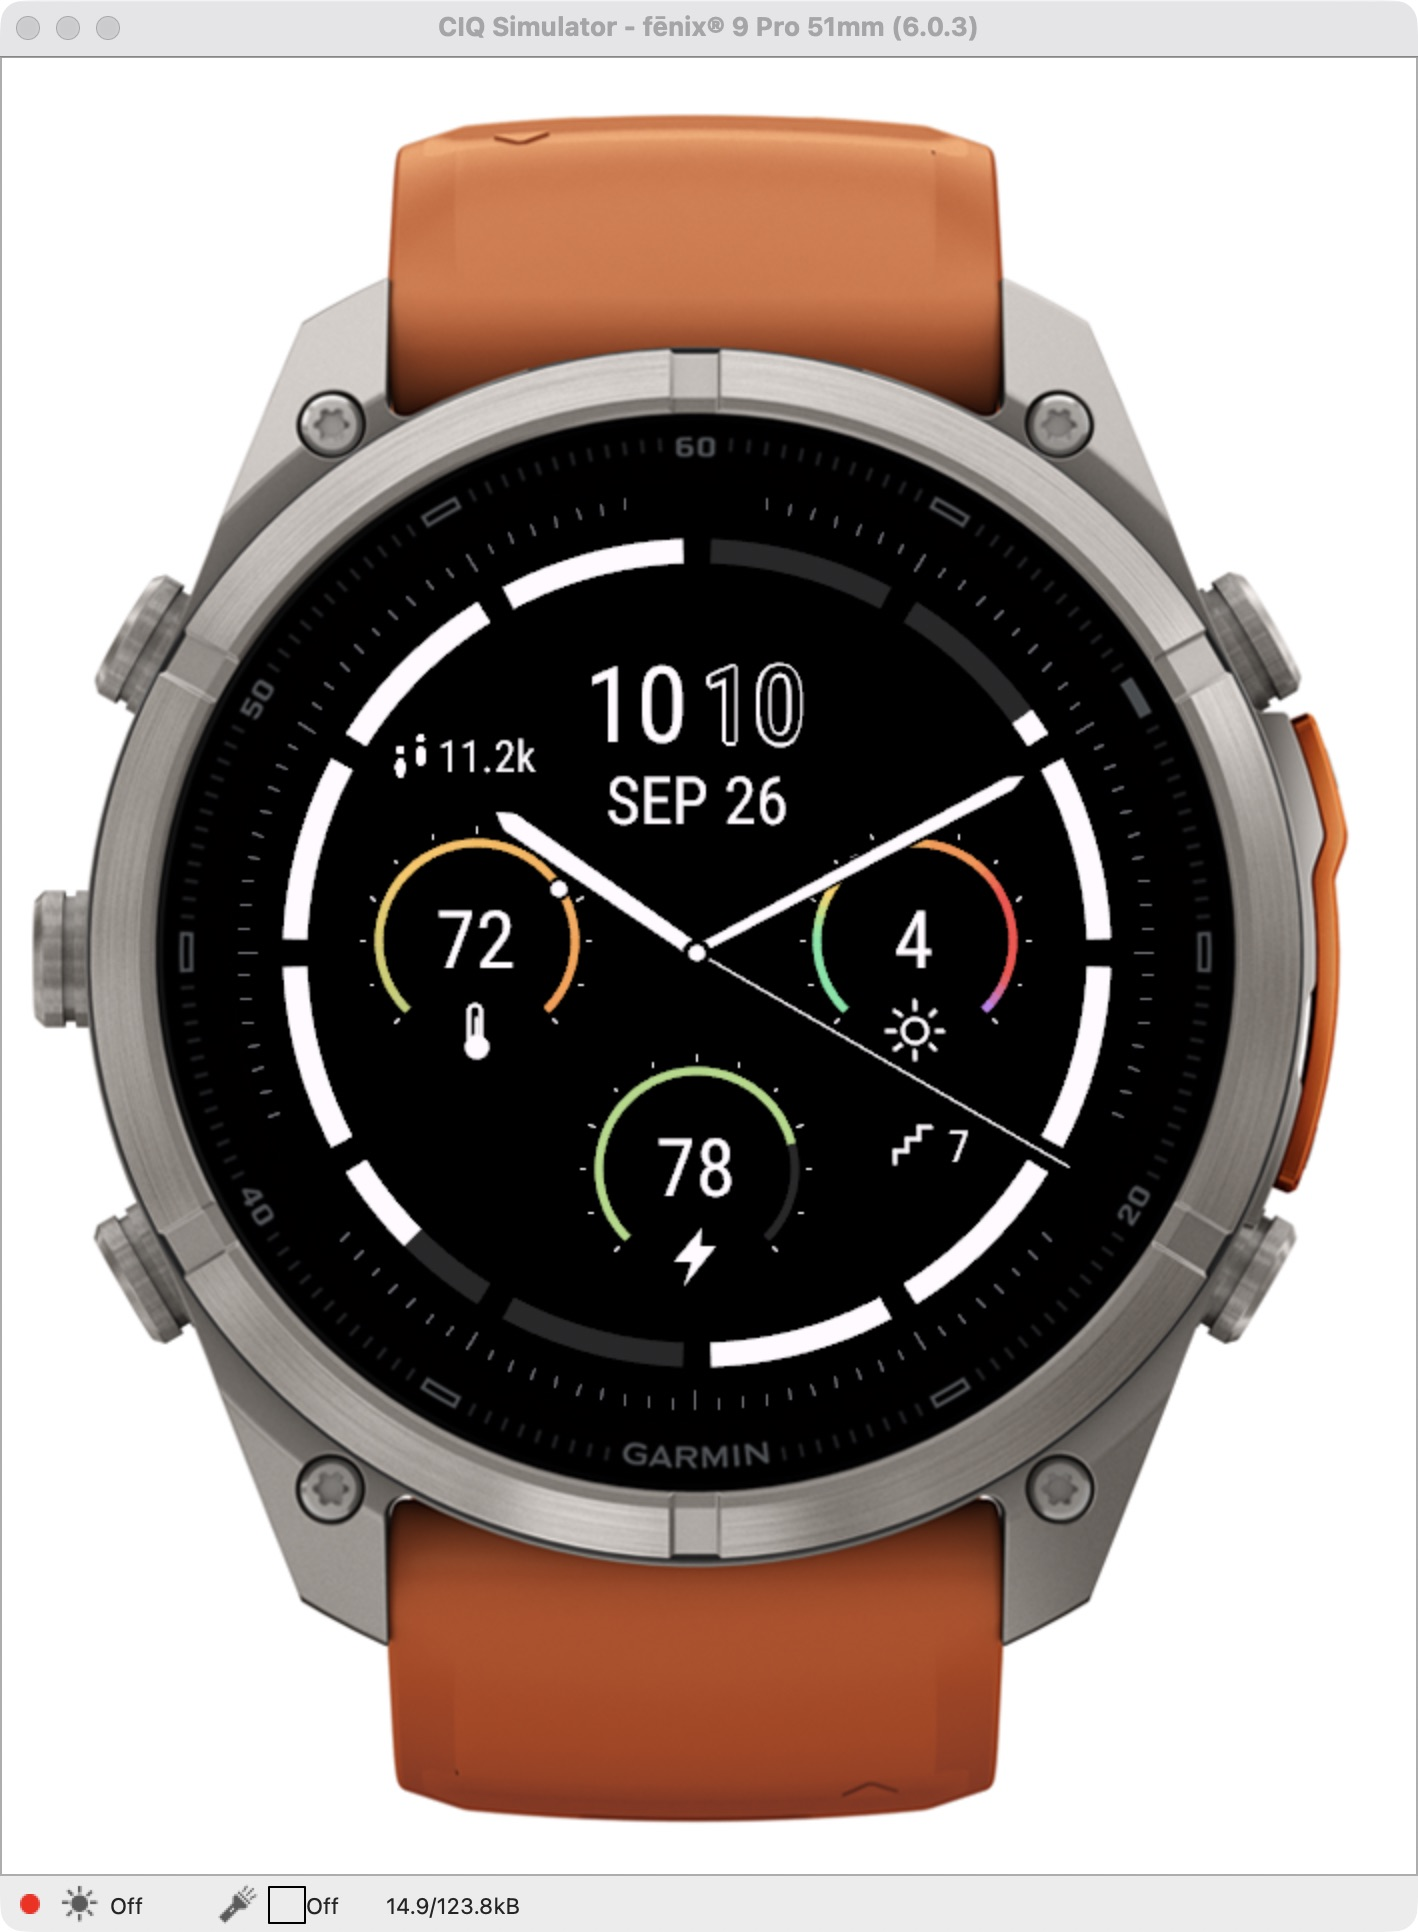
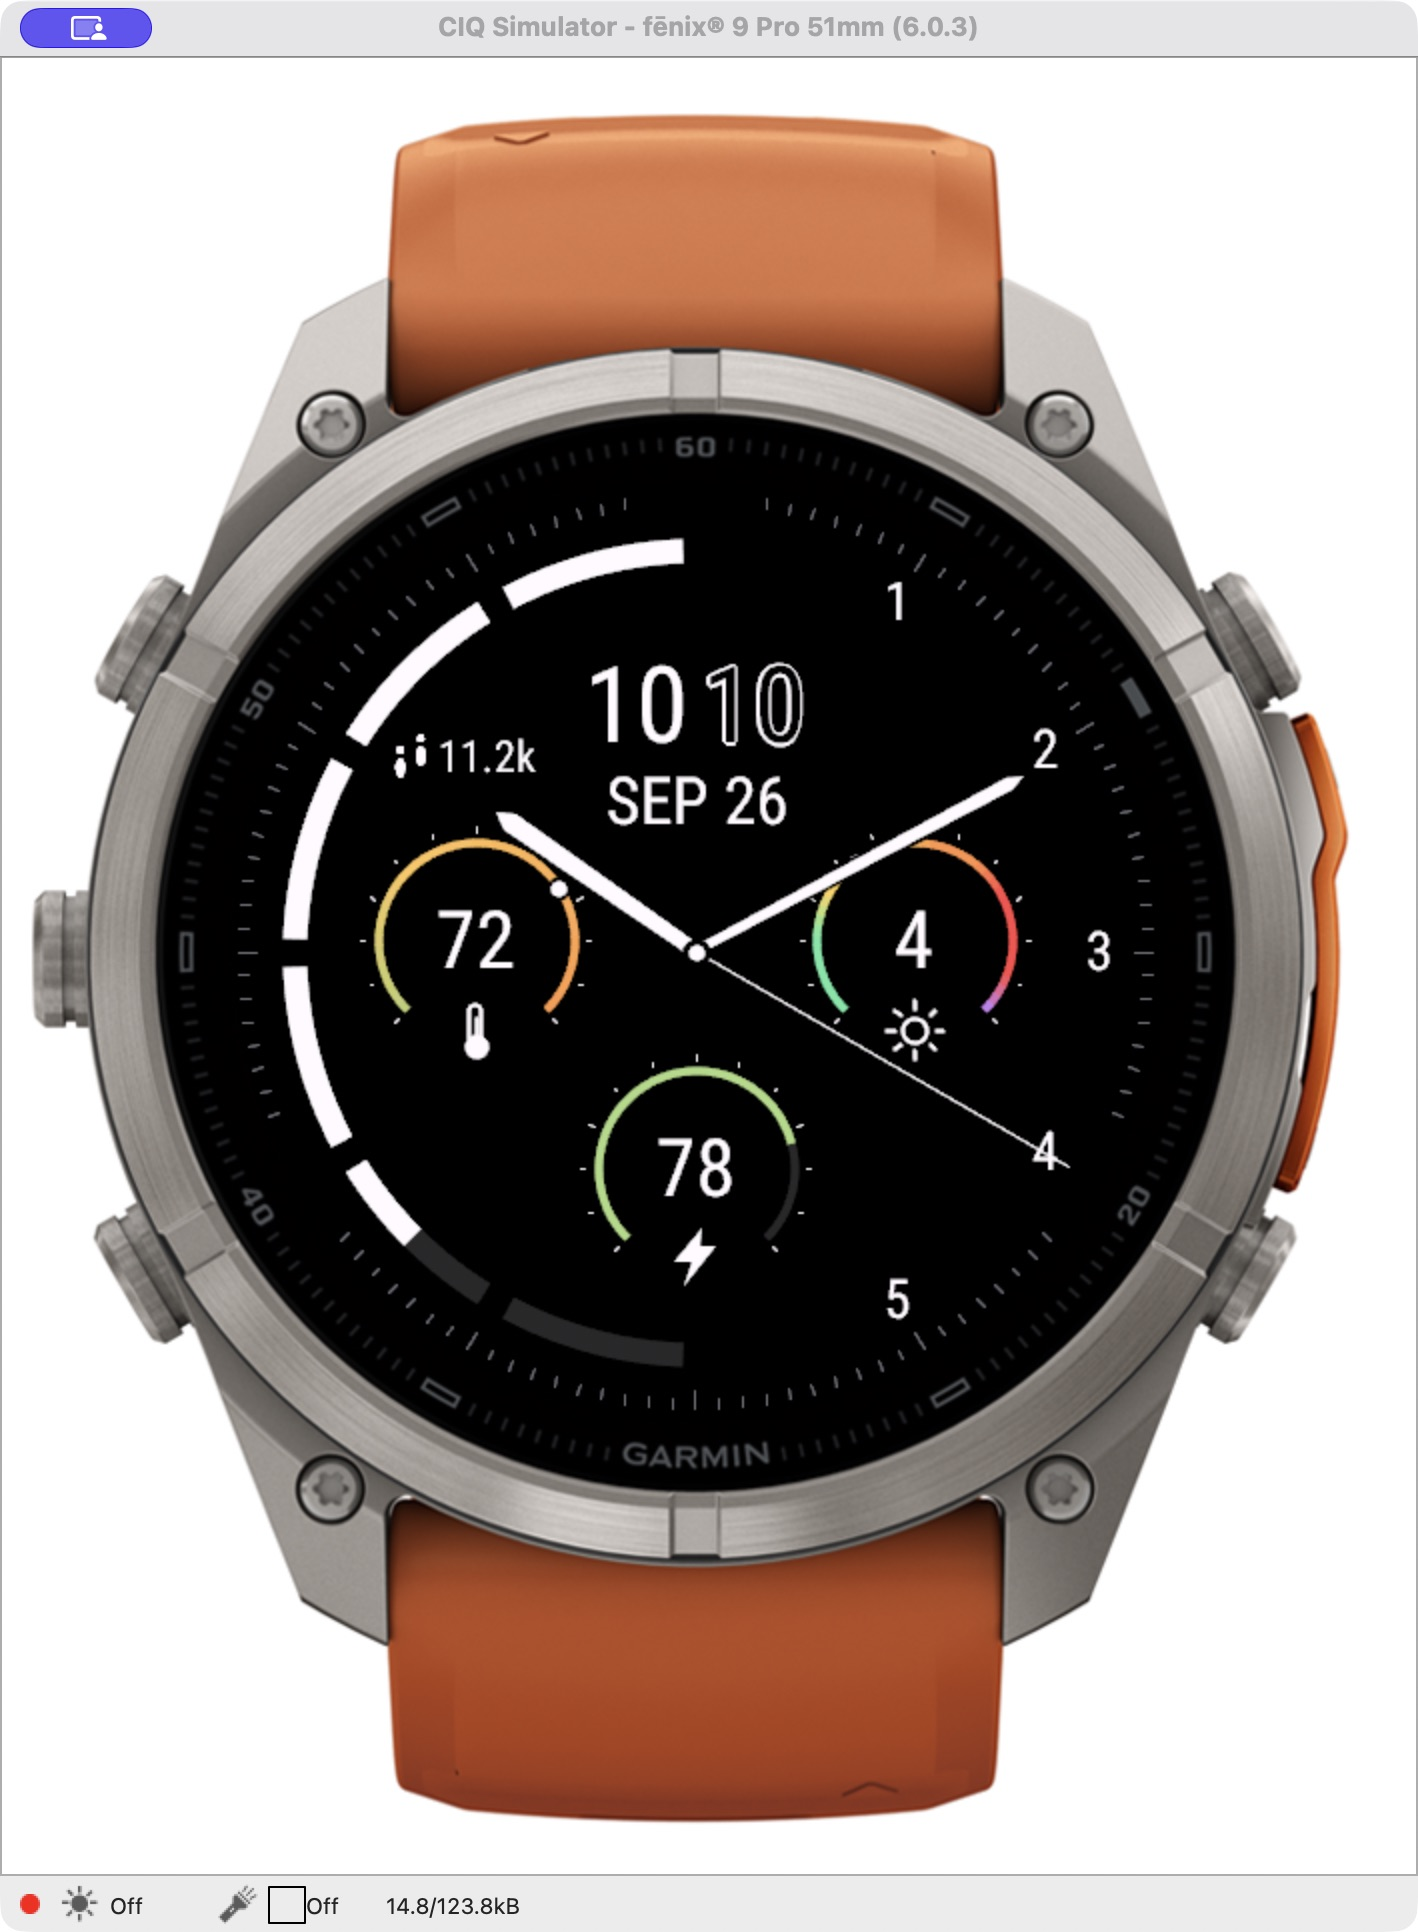
Replace Ember floors display with standard hour numerals

diff --git a/faces/ember/README.md b/faces/ember/README.md
@@ -2,7 +2,7 @@
 
 A white-on-black Garmin analog/digital watch face recreated from [this reference](https://www.reddit.com/r/GarminWatchFaces/comments/1x64vvl/need_help_identifying_watch_face/), with weather on the left, UV on the right, and Body Battery below the hands.
 
-![Ember v1.1.3 in the Garmin simulator](docs/preview.png)
+![Ember v1.1.4 in the Garmin simulator](docs/preview.png)
 
 This is an actual simulator screenshot with synthetic preview readings. The installable release always reads Garmin data.
 
@@ -14,7 +14,7 @@ The included **install/Ember.prg** is for **fēnix 9 Pro 51 mm AMOLED (`fenix9pr
 2. Copy `install/Ember.prg` into the watch's existing `GARMIN/APPS` folder. macOS requires an MTP client; Finder does not expose MTP storage.
 3. Disconnect after transfer completes, then select **Ember** in the watch-face picker.
 
-The v1.1.3 release was transferred to the target watch over USB and verified by reading it back byte for byte. Select Ember in the watch-face picker after disconnecting.
+The v1.1.4 release was transferred to the target watch over USB and verified by reading it back byte for byte. Select Ember in the watch-face picker after disconnecting.
 
 ## Display
 
@@ -23,13 +23,14 @@ The v1.1.3 release was transferred to the target watch over USB and verified by 
 - Left dial: current temperature, default Fahrenheit; only the numeric value is shown, with a thermometer centered in the bottom gap. The gradient uses Sector’s temperature colors across today’s low-to-high range, with a sliding white marker for the current reading.
 - Right dial: numeric UV index with a sun centered in the bottom gap, and Sector’s green/yellow/orange/red/purple gradient on a 0–11 scale and a sliding white marker.
 - Bottom dial: Body Battery, 0–100, with a lightning icon centered in the bottom gap. Its fill color interpolates from red at 0, through amber at 50, to green at 100.
-- Matching segmented outer arcs: steps on the left and floors climbed on the right, each split at the hour markers. Steps fill downward from twelve toward six; floors fill upward from six toward twelve. Both use gray tracks and Garmin's respective daily goals. Partial segments show proportional progress; reaching or exceeding the goal fills that side.
-- Horizontal number-and-icon readouts sit at the upper left for steps and lower right for floors. The floors readout uses a staircase icon; neither readout uses unit labels. Missing readings show `--`, and unavailable/zero goals produce neutral tracks.
+- Segmented steps arc on the left, split at the hour markers and filling downward from twelve toward six against a gray track using Garmin's daily step goal. Partial segments show proportional progress; reaching or exceeding the goal fills the arc.
+- White hour numerals 1–5 occupy standard clock positions along the right edge, replacing the floors arc and staircase readout.
+- The horizontal step count and footprint icon sit at the upper left without unit labels. Missing readings show `--`, and unavailable/zero goals produce a neutral track.
 - Simple slim solid hour/minute hands with short tapered tips, a compact center hub, and a white seconds needle.
-- Circle numbers use a 46-unit font, activity readouts use 26, and the date uses 38. Complication icons are centered in the bottom gaps without unit labels or UV lettering. The step readout uses an upright footprint motif, vertically centered beside the number with a tight five-unit gap based on the icon’s visible bounds.
+- Circle numbers use a 46-unit font, the step readout uses 26, hour numerals use 32, and the date uses 38. Complication icons are centered in the bottom gaps without unit labels or UV lettering. The step readout uses an upright footprint motif, vertically centered beside the number with a tight five-unit gap based on the icon’s visible bounds.
 - Screen goes completely black in low-power/off mode, matching Sector's AMOLED behavior. No always-on dial.
 
-Version 1.1.3 uses a white theme and Sector’s progress geometry across all three dials: a 270° arc from lower left to lower right, with white scale ticks. Body Battery fills 0–100% of this arc against a gray track (50 = half the arc, 100 = the full arc). Weather and UV retain Sector’s color gradients and sliding white markers. Missing readings show `--` with a neutral track. Garmin controls weather synchronization; the face uses its latest supplied conditions without an extra age cutoff. Body Battery uses the native complication, falling back to valid samples from the last two hours. Values refresh every 30 seconds while awake, and immediately after waking or changing settings.
+Version 1.1.4 uses a white theme and Sector’s progress geometry across all three dials: a 270° arc from lower left to lower right, with white scale ticks. Body Battery fills 0–100% of this arc against a gray track (50 = half the arc, 100 = the full arc). Weather and UV retain Sector’s color gradients and sliding white markers. Missing readings show `--` with a neutral track. Garmin controls weather synchronization; the face uses its latest supplied conditions without an extra age cutoff. Body Battery uses the native complication, falling back to valid samples from the last two hours. Values refresh every 30 seconds while awake, and immediately after waking or changing settings.
 
 The design recreates the watch-face graphics, not the reference photograph's glass reflections or physical bezel.
 
@@ -65,9 +66,9 @@ The preview is a separate build with fixed sample values and a 10:10 clock. Prev
 ## Validation
 
 - Release compiles for the exact target using Connect IQ SDK 9.2.0.
-- All 13 simulator tests pass for v1.1.3 in the combined repository. Coverage includes floors goals, over-goal values, midnight resets, missing/invalid floor data, opposite daily arc starting positions and partial fills, Body Battery geometry/colors, steps formatting, weather availability, and Body Battery fallback validity.
-- Version 1.1.3 was visually checked in the target simulator with 11,200/15,000 steps and 7/10 floors. The screenshot confirms segmented outer arcs, top-down steps progress with an upper-left readout, and bottom-up floors progress with a lower-right readout. Earlier versions also verified live simulator readings and display-off behavior.
-- The v1.1.3 USB installation was verified byte for byte. On-wrist appearance and long-term battery usage remain untested.
+- All 13 simulator tests pass for v1.1.4 in the combined repository. Coverage includes floors goals, over-goal values, midnight resets, missing/invalid floor data, step arc starting position and partial fills, Body Battery geometry/colors, steps formatting, weather availability, and Body Battery fallback validity.
+- Version 1.1.4 was visually checked in the target simulator with 11,200/15,000 steps. The fresh screenshot confirms the segmented left step arc and white hour numerals 1–5 on the right, with no floors display. Earlier versions also verified live simulator readings and display-off behavior.
+- The v1.1.4 USB installation was verified byte for byte. On-wrist appearance and long-term battery usage remain untested.
 
 ## Source and privacy
 

diff --git a/README.md b/README.md
@@ -5,9 +5,9 @@ Two open-source Garmin watch faces: **Sector** and **Ember**. Each has its own s
 | Sector | Ember |
 | --- | --- |
 | <img src="faces/sector/docs/preview.png" alt="Sector analog watch face" width="320"> | <img src="faces/ember/docs/preview.png" alt="Ember analog and digital watch face" width="320"> |
-| Analog dial with steps, Sleep Score, Body Battery, UV, date, and temperature. | Analog/digital dial with weather, UV, Body Battery, steps, and floors climbed. |
+| Analog dial with steps, Sleep Score, Body Battery, UV, date, and temperature. | Analog/digital dial with weather, UV, Body Battery, steps, and right-side hour numerals. |
 | [About Sector](faces/sector/) · **[Download Sector.prg](https://github.com/loganthorneloe/garmin-watch/raw/refs/heads/main/faces/sector/install/Sector.prg)** | [About Ember](faces/ember/) · **[Download Ember.prg](https://github.com/loganthorneloe/garmin-watch/raw/refs/heads/main/faces/ember/install/Ember.prg)** |
-| Version 1.1.8 | Version 1.1.3 |
+| Version 1.1.8 | Version 1.1.4 |
 
 Previews use synthetic simulator readings, not personal health data.
 
